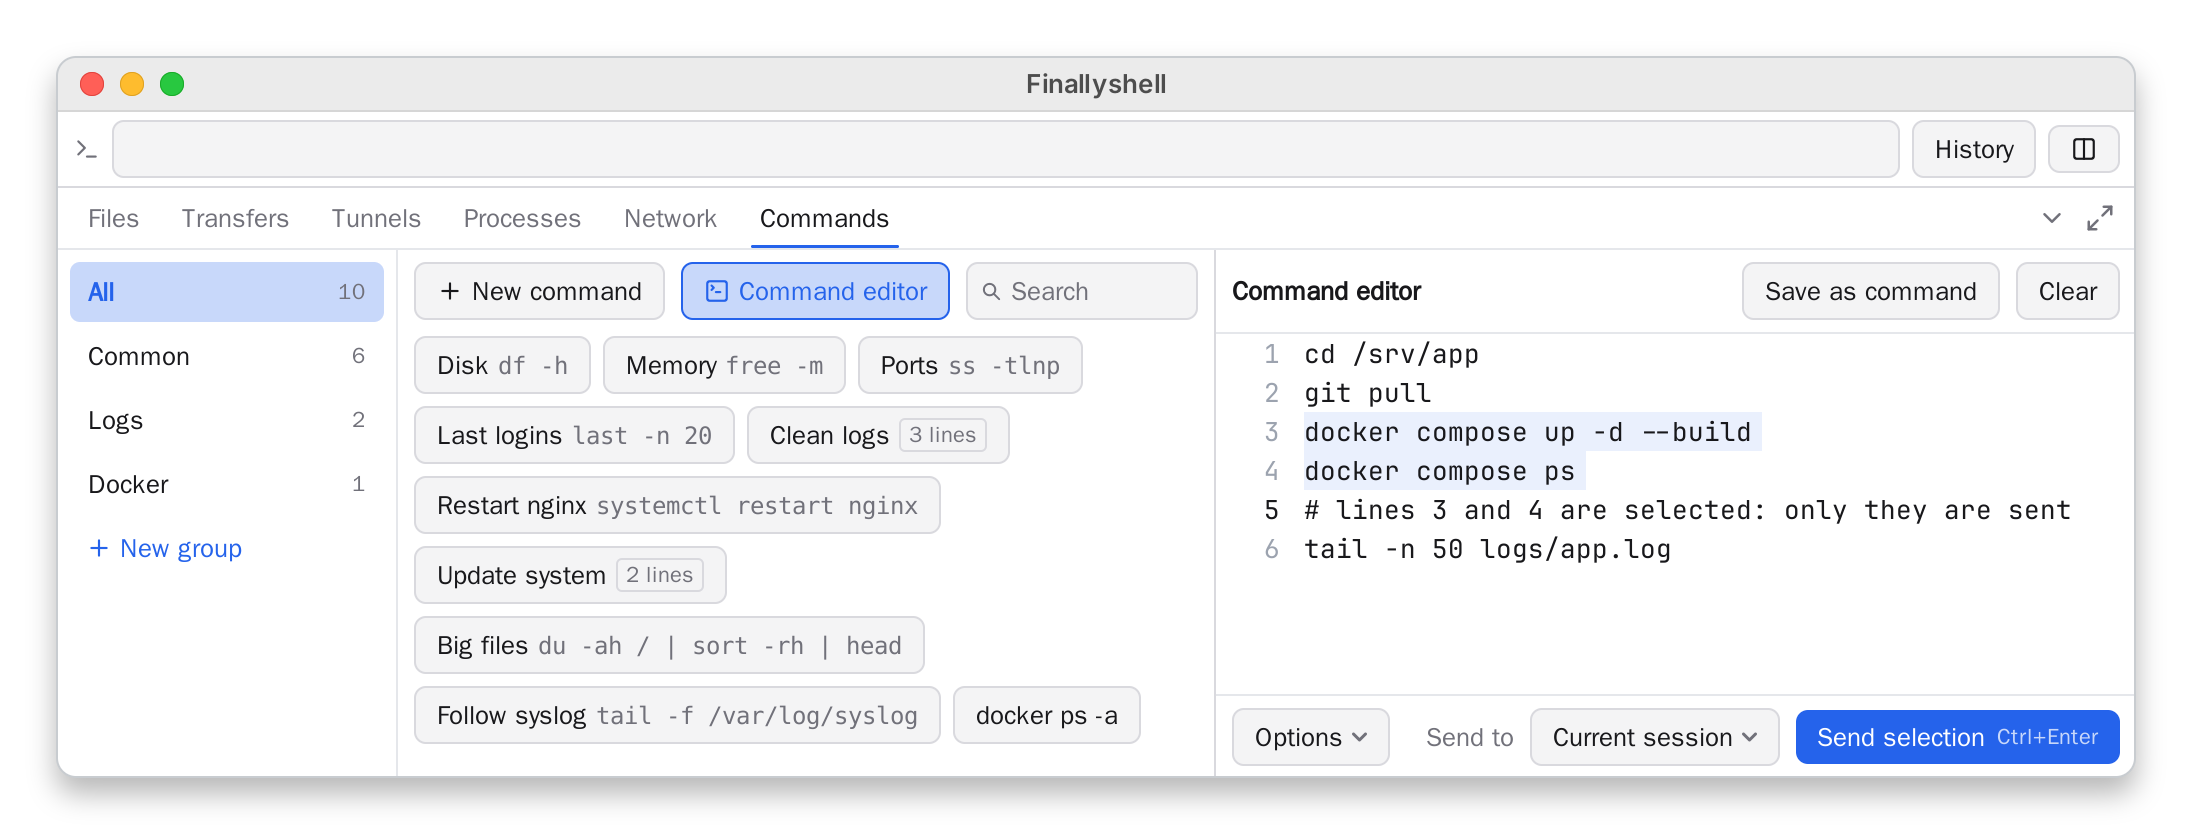
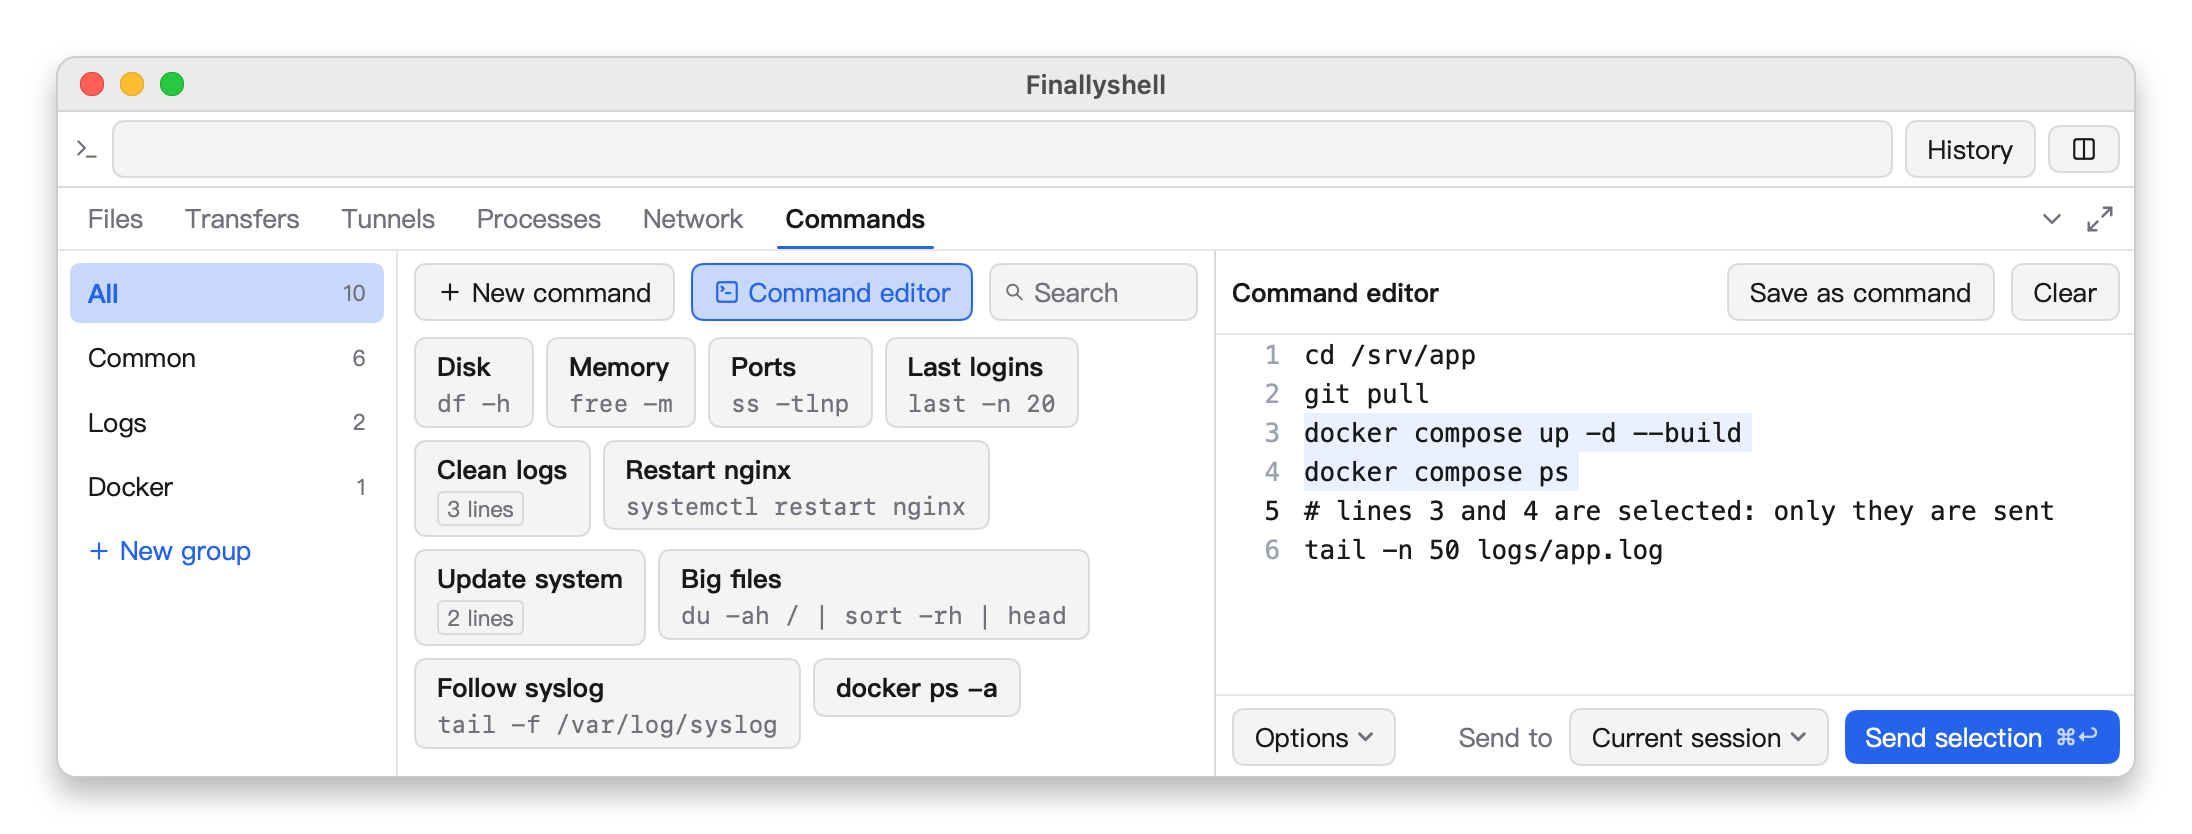
fix(app): give quick command names space to wrap

diff --git a/internal/app/quickcmds.go b/internal/app/quickcmds.go
@@ -437,7 +437,7 @@ func (a *App) quickButtons(c *ui.Context, store *config.QuickCommands, s *Sessio
 	// built: the loop goes on over the list as it was.
 	var act func()
 	area := ui.Scroll(c.Key("quick-buttons")).Grow(1).MinHeight(0).Children(func() {
-		ui.Row(c).Wrap().Gap(6).Padding(2, 8, 8, 8).Children(func() {
+		ui.Row(c).Wrap().AlignItems(ui.Start).Gap(6).Padding(2, 8, 8, 8).Children(func() {
 			for _, cmd := range cmds {
 				a.quickButton(c, store, s, live, cmd, &act)
 			}
@@ -465,14 +465,16 @@ func (a *App) quickButtons(c *ui.Context, store *config.QuickCommands, s *Sessio
 	}
 }
 
-// quickButton is cmd's button: its name and, in gray, its one line, or
-// how many lines it has. A click sends it; it drags, and takes a command
-// dropped on it; its context menu has the rest.
+// quickButton shows the name above the command preview, so a long command
+// cannot take space from its name. A click sends it, and it can be dragged
+// or receive a drop.
 func (a *App) quickButton(c *ui.Context, store *config.QuickCommands, s *Session, live bool, cmd *config.QuickCommand, act *func()) {
 	lines := config.QuickCommandLines(cmd.Text)
 	title := cmd.Title()
+	named := strings.TrimSpace(cmd.Name) != ""
 	btn := ui.Button(c.Key(cmd.ID), "").Label(title).Tooltip(cmd.Text).AccessDisabled(!live).
-		MaxWidth(420).MinWidth(0).Border(1, theme.Border).Drag(quickDrag{cmd.ID})
+		Column().AlignItems(ui.Stretch).Gap(2).MaxWidth(420).MinWidth(0).Shrink(1).
+		Border(1, theme.Border).Drag(quickDrag{cmd.ID})
 	switch {
 	case btn.Dragging():
 		btn.Opacity(0.4)
@@ -483,14 +485,17 @@ func (a *App) quickButton(c *ui.Context, store *config.QuickCommands, s *Session
 		btn.Border(1, theme.Accent)
 	}
 	btn.Children(func() {
-		ui.Text(c, title).SingleLine().Ellipsis("…").MinWidth(0).Shrink(1)
+		name := ui.Text(c, title).FontWeight(600).MinWidth(0)
+		if !named {
+			name.SingleLine()
+		}
 		switch {
 		case len(lines) > 1:
 			ui.Text(c, locales.QuickLines(len(lines))).FontSize(11).TextColor(theme.TextMuted).
-				Padding(0, 4).Border(1, theme.Border).Radius(3).SingleLine().Shrink(0)
-		case len(lines) == 1 && strings.TrimSpace(cmd.Name) != "":
+				Padding(0, 4).Border(1, theme.Border).Radius(3).SingleLine().AlignSelf(ui.Start)
+		case len(lines) == 1 && named:
 			ui.Text(c, strings.TrimSpace(lines[0])).Font("monospace").FontSize(12).TextColor(theme.TextMuted).
-				SingleLine().Ellipsis("…").MinWidth(0).Shrink(1)
+				SingleLine().MinWidth(0)
 		}
 	})
 	btn.ContextMenu(func(m *ui.Menu) {

diff --git a/internal/app/quickcmds_test.go b/internal/app/quickcmds_test.go
@@ -142,6 +142,51 @@ func TestQuickCommandsSend(t *testing.T) {
 	p.SetLocale("en")
 }
 
+// The preview goes below the name, which wraps even when a long preview
+// would have taken all the available space in a single row.
+func TestQuickCommandNameWraps(t *testing.T) {
+	for _, tc := range []struct {
+		lang, short, long string
+	}{
+		{"en", "Memory", "Install and start Fail2ban brute-force protection (Debian 12 compatible)"},
+		{"zh-Hans", "内存", "安装并启动 Fail2ban 防爆破（Debian 12 兼容版）"},
+	} {
+		t.Run(tc.lang, func(t *testing.T) {
+			a, p := testApp(t)
+			const shortCommand = "free -h"
+			const longCommand = "apt-get update && apt-get install -y fail2ban"
+			store := config.NewQuickCommands()
+			store.AddCommand(&config.QuickCommand{Name: tc.short, Text: shortCommand}, "")
+			store.AddCommand(&config.QuickCommand{Name: tc.long, Text: longCommand}, "")
+
+			const width = 180
+			tt := ui.NewTester(func(c *ui.Context) {
+				ui.Column(c).Fill().Children(func() {
+					a.quickButtons(c, store, nil, true)
+				})
+			}, width, 240)
+			p.tt = tt
+			p.SetLocale(tc.lang)
+
+			shortButton, okShort := tt.Find(tc.short)
+			shortPreview, okShortPreview := tt.Find(shortCommand)
+			longButton, okLong := tt.Find(tc.long)
+			longPreview, okLongPreview := tt.Find(longCommand)
+			if !okShort || !okShortPreview || !okLong || !okLongPreview {
+				t.Fatalf("missing command names or previews: %q", tt.Texts())
+			}
+			if longButton.W > width-16 || longPreview.W >= longButton.W {
+				t.Errorf("long button or preview escaped the narrow column: button %+v, preview %+v", longButton, longPreview)
+			}
+			if longPreview.Y-longButton.Y <= shortPreview.Y-shortButton.Y+shortPreview.H/2 {
+				t.Errorf("long name did not wrap above its preview: long button %+v, long preview %+v, short button %+v, short preview %+v",
+					longButton, longPreview, shortButton, shortPreview)
+			}
+			saveShot(t, tt, "quick-command-name-wrap-"+tc.lang+".png")
+		})
+	}
+}
+
 // The buttons of a session that is not connected, or of a new tab, are
 // shown but send nothing.
 func TestQuickCommandsDisabled(t *testing.T) {

diff --git a/docs/zh-CN/features.md b/docs/zh-CN/features.md
@@ -772,7 +772,7 @@ SFTP 每个文件都要来回好几次，传大量小文件的文件夹很慢。
 右下的“命令”页存放快捷命令，相当于 FinalShell 的快捷命令面板：把常用命令存成按钮，点一下就发给当前会话。所有主机共用同一份，保存在 `quickcommands.json` 里（见 [configuration.md](configuration.md#quickcommandsjson)）。
 
 - 左边是分组：“全部”显示所有命令，然后是你的分组，按你排好的顺序，每个分组后面是它的命令数；“新建分组”在原地输入新分组的名称（回车保留，Esc 放弃）。分组的右键菜单可以重命名，或在询问后删除；删除分组时其中的命令会保留，不属于任何分组，显示在“全部”下。
-- 右边是所选分组的命令按钮，一行放不下时换行。按钮显示命令的名称，命令只有一行时在后面用灰色显示命令本身，有多行时显示行数；鼠标悬停显示完整的命令。上面的搜索框按名称和命令内容筛选，不区分大小写。
+- 右边是所选分组的命令按钮，一行放不下时换行。按钮上方显示名称，长名称会在按钮内自动换行。下方用灰色显示单行命令的预览或多行命令的行数。鼠标悬停显示完整的命令。上面的搜索框按名称和命令内容筛选，不区分大小写。
 - 点按钮就把命令发给会话，走的是和命令输入框回车一样的路径：用会话的编码发送，文件面板像回车后一样跟随 shell 的目录，执行的每一行都记入这台主机的命令输入框历史。每一行后面都跟一个回车，所以多行命令会逐行执行。关掉“每行发送后按回车”时，最后一行不带回车：它停在提示符后面，等你检查后自己按回车；前面的行仍会执行。在会话那一行里，发送后键盘回到终端。
 - 工具栏里搜索框前面的“发送到”选择按钮发到哪里（显示[命令编辑器](#命令编辑器)时，由它“发送”旁边的“发送到”代替，设置的是同一个目标）：“当前会话”（默认）、“全部会话”（所有已连接的会话），或“选择会话…”：弹出一个列表，每个会话一个复选框，带状态圆点和名称。目标不是当前会话时，它用警告色显示。命令输入框不跟随它，总是发给自己的会话。
   - 每个会话只收到一次（面板行就是它所属的会话，不算另一个）。新标签页和未连接的会话会跳过，其他会话照常收到。

diff --git a/docs/en/features.md b/docs/en/features.md
@@ -1919,10 +1919,10 @@ and kept in `quickcommands.json` (see
   Esc gives it up). A group's context menu renames it or deletes it,
   after asking; its commands are kept, in no group, under "All".
 - The commands of the group chosen are buttons on the right, in rows
-  that wrap. A button shows the command's name and, in gray, the command
-  when it is one line, or how many lines it has; its tooltip is the
-  whole command. The search box above them filters by name and by
-  command, ignoring case.
+  that wrap. The name is shown above a gray command preview or line
+  count. Long names wrap within the button. Its tooltip shows the whole
+  command. The search box above filters by name and by command, ignoring
+  case.
 - A click sends the command to the session, through the same path as
   the command bar's Enter: in the session's encoding, the file panel
   following the shell's folder as it does after Enter, and each line that
